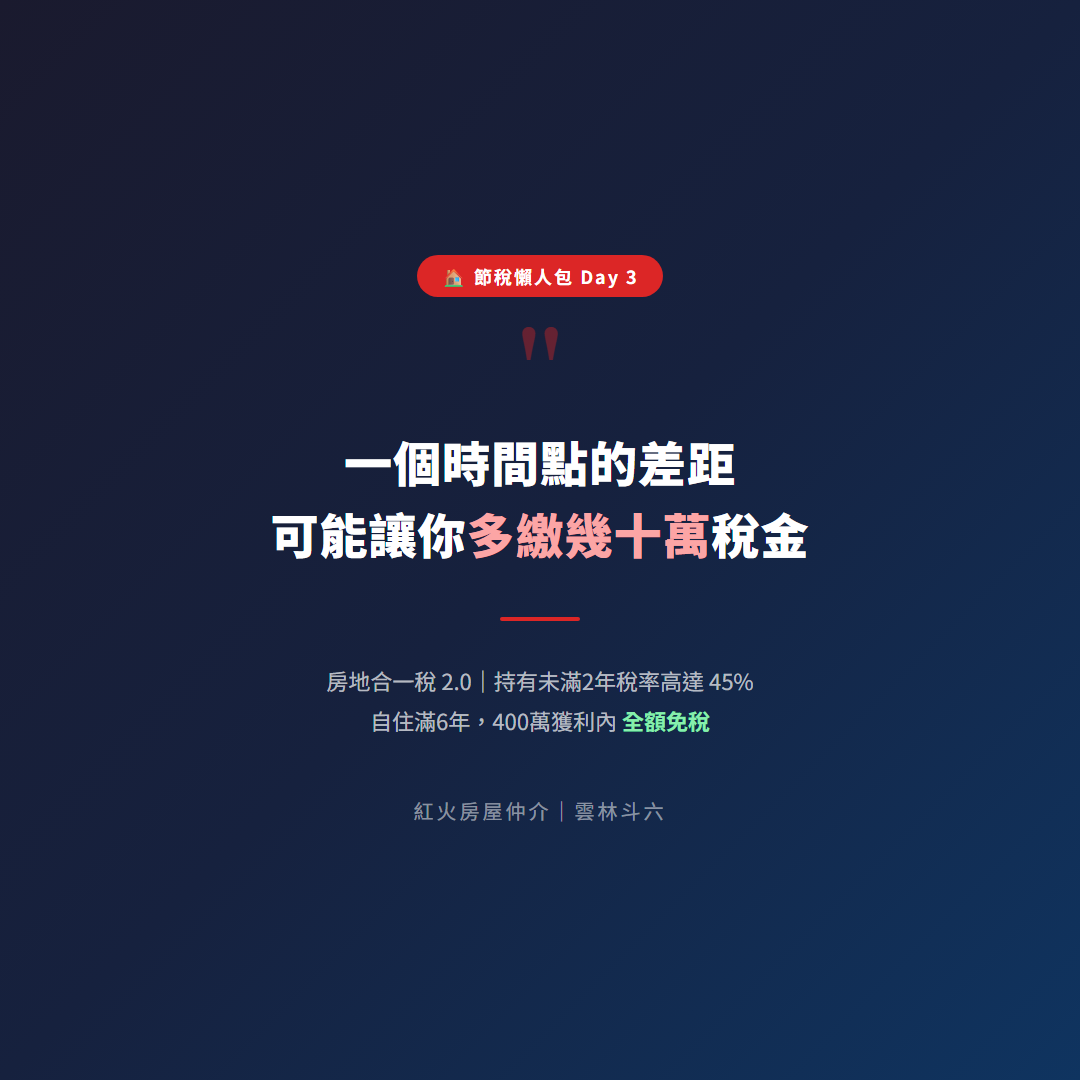
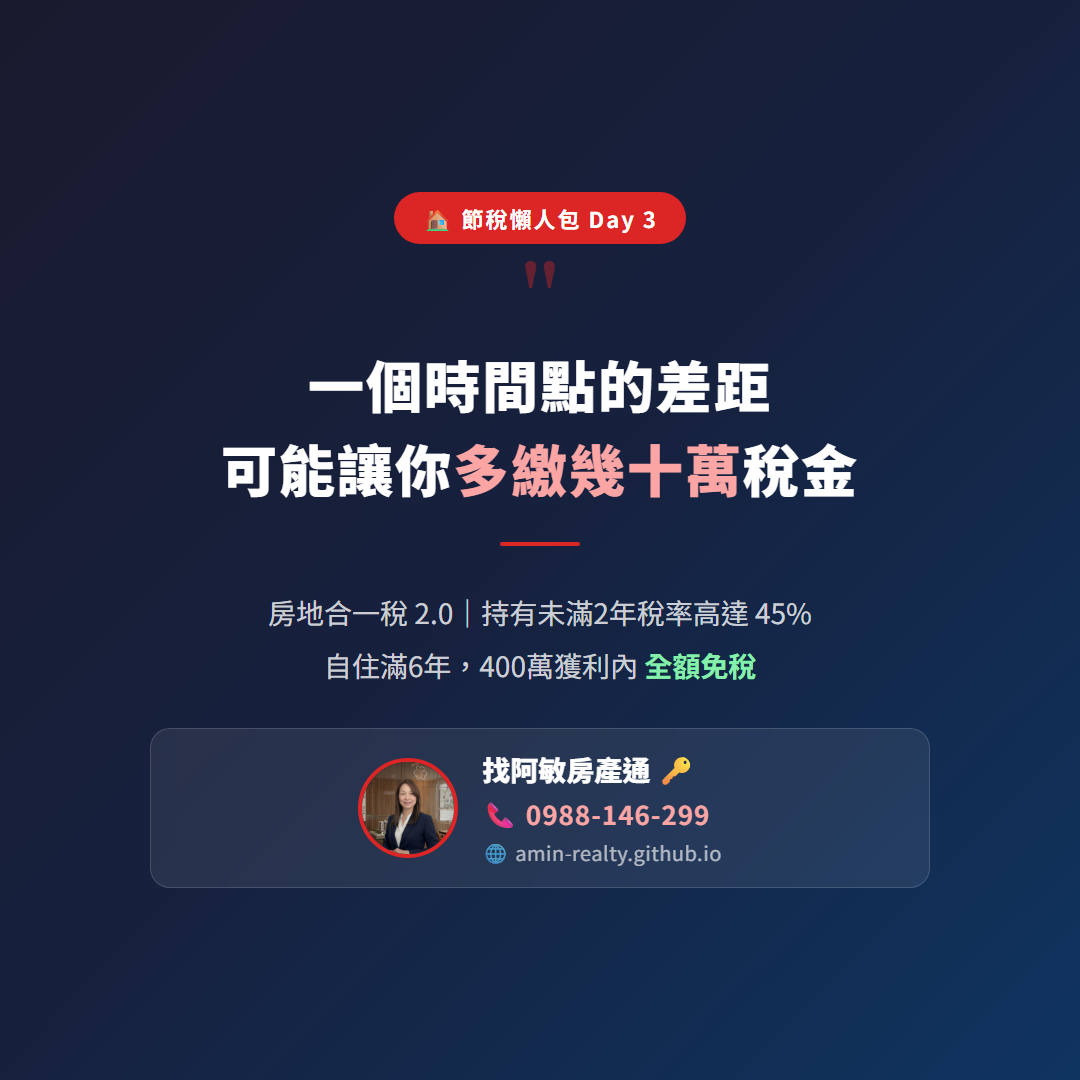
Add agent card with photo, phone, QR code to blog header

Changed region(s): [[0.2139, 0.3056, 0.7944, 0.5194], [0.2444, 0.55, 0.7639, 0.825], [0.3667, 0.1528, 0.6417, 0.275]]

diff --git a/public/quote-day3.html b/public/quote-day3.html
@@ -2,7 +2,6 @@
 <html lang="zh-TW">
 <head>
 <meta charset="UTF-8">
-<meta name="viewport" content="width=device-width, initial-scale=1.0">
 <style>
   @import url('https://fonts.googleapis.com/css2?family=Noto+Sans+TC:wght@400;700;900&display=swap');
   * { margin: 0; padding: 0; box-sizing: border-box; }
@@ -13,58 +12,89 @@
     display: flex; align-items: center; justify-content: center;
   }
   .wrap {
-    width: 880px;
+    width: 900px;
     text-align: center;
     color: white;
-    padding: 60px;
+    padding: 50px 60px;
   }
   .tag {
     display: inline-block;
     background: #DC2626;
     color: white;
-    font-size: 18px;
+    font-size: 22px;
     font-weight: 700;
-    padding: 8px 24px;
+    padding: 10px 28px;
     border-radius: 30px;
-    margin-bottom: 48px;
+    margin-bottom: 32px;
     letter-spacing: 2px;
   }
   .quote-mark {
-    font-size: 120px;
+    font-size: 100px;
     color: rgba(220,38,38,0.4);
     line-height: 0.5;
-    margin-bottom: 20px;
+    margin-bottom: 16px;
     font-family: Georgia, serif;
   }
   .quote {
-    font-size: 48px;
+    font-size: 56px;
     font-weight: 900;
     line-height: 1.5;
     color: #ffffff;
-    margin-bottom: 48px;
-    letter-spacing: 1px;
+    margin-bottom: 32px;
+    letter-spacing: 2px;
   }
-  .quote span {
-    color: #FCA5A5;
-  }
+  .quote span { color: #FCA5A5; }
   .sub {
-    font-size: 22px;
-    color: rgba(255,255,255,0.7);
-    line-height: 1.8;
-    margin-bottom: 56px;
+    font-size: 28px;
+    color: rgba(255,255,255,0.8);
+    line-height: 1.9;
+    margin-bottom: 36px;
   }
   .divider {
-    width: 80px;
-    height: 4px;
+    width: 80px; height: 4px;
     background: #DC2626;
     margin: 0 auto 40px;
     border-radius: 2px;
   }
-  .brand {
+  /* Agent card */
+  .agent-card {
+    display: flex;
+    align-items: center;
+    justify-content: center;
+    gap: 24px;
+    background: rgba(255,255,255,0.08);
+    border: 1px solid rgba(255,255,255,0.15);
+    border-radius: 20px;
+    padding: 20px 36px;
+    backdrop-filter: blur(10px);
+  }
+  .agent-photo {
+    width: 100px; height: 100px;
+    border-radius: 50%;
+    border: 4px solid #DC2626;
+    object-fit: cover;
+    flex-shrink: 0;
+  }
+  .agent-info {
+    text-align: left;
+  }
+  .agent-name {
+    font-size: 28px;
+    font-weight: 900;
+    color: #fff;
+    margin-bottom: 6px;
+  }
+  .agent-phone {
+    font-size: 26px;
+    font-weight: 700;
+    color: #FCA5A5;
+    margin-bottom: 6px;
+    letter-spacing: 1px;
+  }
+  .agent-link {
     font-size: 20px;
-    color: rgba(255,255,255,0.5);
-    letter-spacing: 3px;
-    font-weight: 500;
+    color: rgba(255,255,255,0.65);
+    letter-spacing: 0.5px;
   }
 </style>
 </head>
@@ -81,7 +111,15 @@
     房地合一稅 2.0｜持有未滿2年稅率高達 45%<br>
     自住滿6年，400萬獲利內 <strong style="color:#86EFAC">全額免稅</strong>
   </div>
-  <div class="brand">紅火房屋仲介｜雲林斗六</div>
+
+  <div class="agent-card">
+    <img class="agent-photo" src="agent.jpg" alt="阿敏">
+    <div class="agent-info">
+      <div class="agent-name">找阿敏房產通 🔑</div>
+      <div class="agent-phone">📞 0988-146-299</div>
+      <div class="agent-link">🌐 amin-realty.github.io</div>
+    </div>
+  </div>
 </div>
 </body>
 </html>

diff --git a/app/blog/page.tsx b/app/blog/page.tsx
@@ -1,5 +1,6 @@
 import { getAllPosts } from '@/lib/notion'
 import Link from 'next/link'
+import Image from 'next/image'
 import type { Metadata } from 'next'
 
 export const metadata: Metadata = {
@@ -7,18 +8,66 @@ export const metadata: Metadata = {
   description: '雲林斗六房產知識、買房指南、市場分析，由紅火房屋仲介專業團隊撰寫。',
 }
 
-export const revalidate = 3600 // 每小時重新抓取
+export const revalidate = 3600
+
+const QR_URL = 'https://api.qrserver.com/v1/create-qr-code/?size=120x120&data=https://amin-realty.github.io&color=1a1a2e&bgcolor=ffffff'
 
 export default async function BlogPage() {
   const posts = await getAllPosts()
 
   return (
     <main className="max-w-4xl mx-auto px-4 py-12">
-      <div className="mb-10">
+
+      {/* Agent Header Card */}
+      <div className="bg-gradient-to-r from-[#1a1a2e] to-[#0f3460] rounded-2xl p-6 mb-10 flex flex-col sm:flex-row items-center gap-6">
+        {/* Photo */}
+        <div className="flex-shrink-0">
+          <Image
+            src="/agent.jpg"
+            alt="阿敏 專業顧問"
+            width={90}
+            height={90}
+            className="rounded-full border-4 border-red-500 object-cover"
+            style={{ width: 90, height: 90 }}
+          />
+        </div>
+
+        {/* Info */}
+        <div className="flex-1 text-center sm:text-left text-white">
+          <div className="text-xs text-orange-300 font-semibold tracking-widest mb-1">紅火房屋仲介</div>
+          <div className="text-2xl font-black mb-1">阿敏房產通</div>
+          <div className="text-lg font-bold text-red-300 mb-1">📞 0988-146-299</div>
+          <a
+            href="https://amin-realty.github.io"
+            target="_blank"
+            rel="noopener noreferrer"
+            className="text-sm text-white/60 hover:text-white transition-colors"
+          >
+            🌐 amin-realty.github.io
+          </a>
+        </div>
+
+        {/* QR Code */}
+        <div className="flex-shrink-0 flex flex-col items-center gap-1">
+          {/* eslint-disable-next-line @next/next/no-img-element */}
+          <img
+            src={QR_URL}
+            alt="掃碼看網站"
+            width={110}
+            height={110}
+            className="rounded-lg border-2 border-white/20"
+          />
+          <span className="text-white/50 text-xs">掃碼看網站</span>
+        </div>
+      </div>
+
+      {/* Blog Title */}
+      <div className="mb-8">
         <h1 className="text-3xl font-bold text-gray-900 mb-2">房產知識部落格</h1>
         <p className="text-gray-500">雲林斗六房產專業知識，幫助您做出最佳決策</p>
       </div>
 
+      {/* Posts */}
       <div className="grid gap-6">
         {posts.map((post) => (
           <article key={post.id} className="border border-gray-200 rounded-xl p-6 hover:shadow-md transition-shadow">
